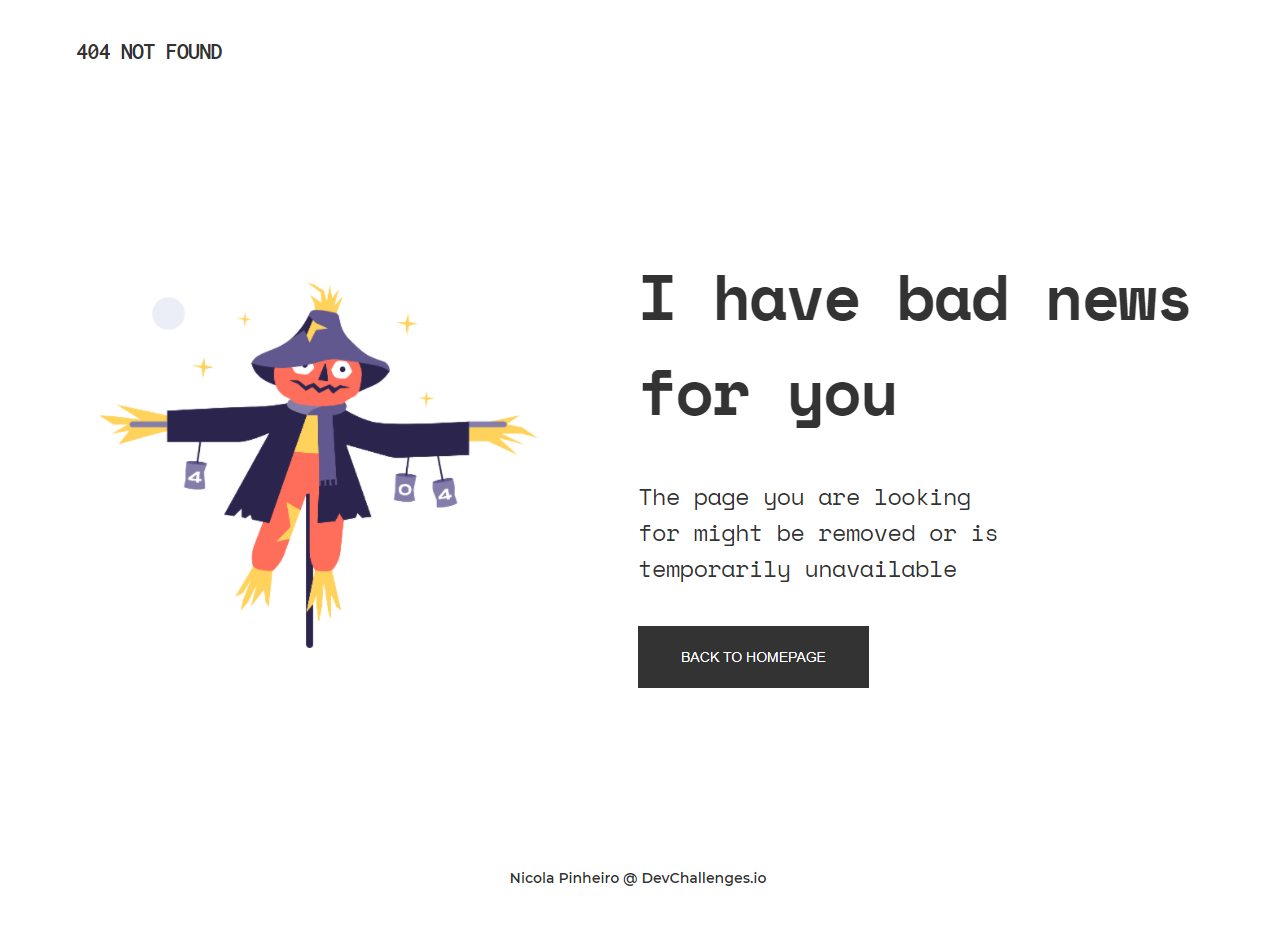
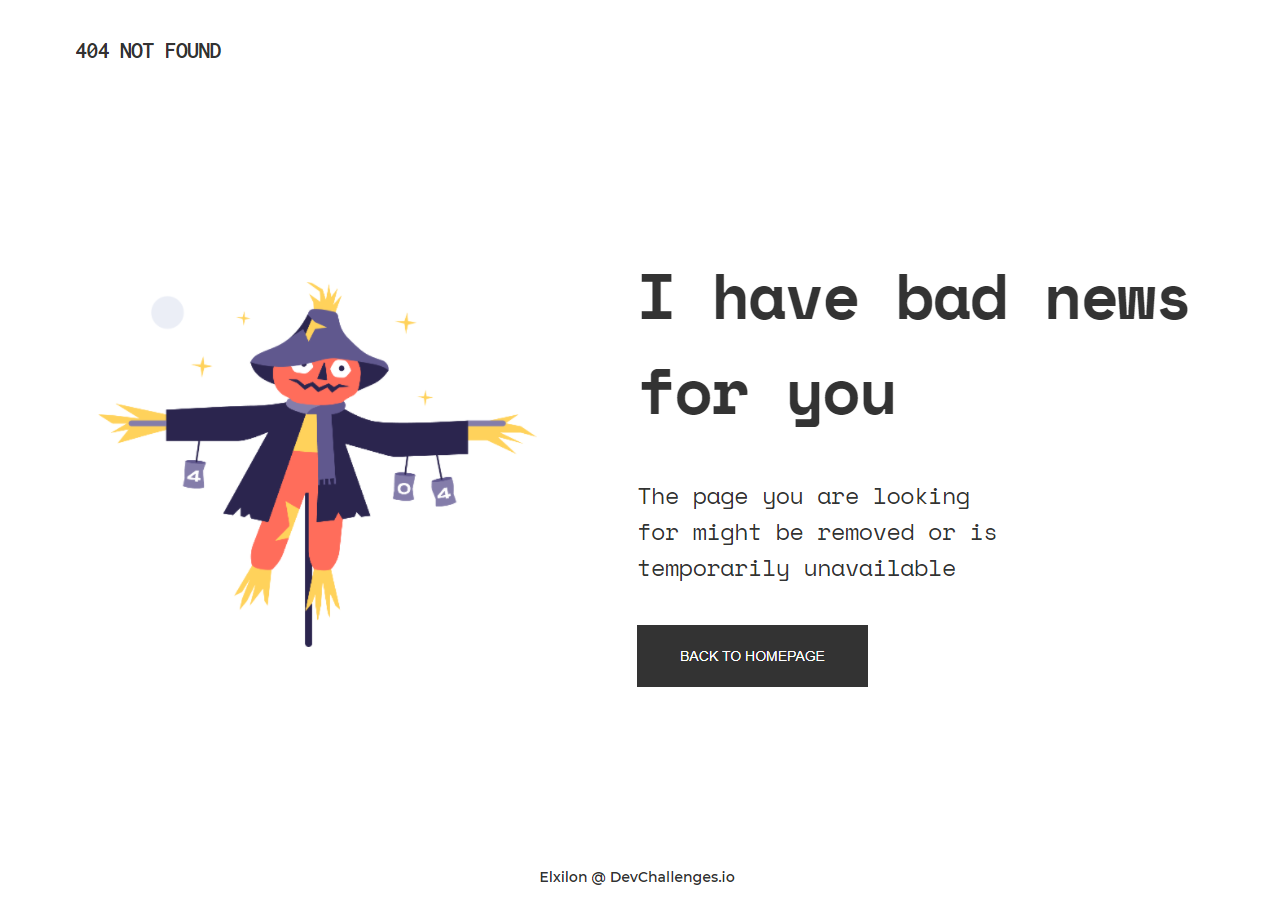
pseudo is better

diff --git a/index.html b/index.html
@@ -32,6 +32,6 @@
         <button>BACK TO HOMEPAGE</button>
       </div>
     </main>
-    <footer>Nicola Pinheiro @ DevChallenges.io</footer>
+    <footer>Elxilon @ DevChallenges.io</footer>
   </body>
 </html>
